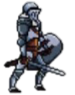
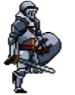
J'ai refais un UC pour la zone de jeu. Je dois faire les actions du personnage.

diff --git a/LostAdventure/UCJeu.xaml b/LostAdventure/UCJeu.xaml
@@ -1,16 +1,12 @@
-<Window x:Class="LostAdventure.MainWindow"
+<UserControl x:Class="LostAdventure.UCJeu"
         xmlns="http://schemas.microsoft.com/winfx/2006/xaml/presentation"
         xmlns:x="http://schemas.microsoft.com/winfx/2006/xaml"
         xmlns:d="http://schemas.microsoft.com/expression/blend/2008"
         xmlns:mc="http://schemas.openxmlformats.org/markup-compatibility/2006"
         xmlns:local="clr-namespace:LostAdventure"
         mc:Ignorable="d"
-        Title="MainWindow" Height="900" Width="1600">
-    <Window.Background>
-        <ImageBrush ImageSource="/Img/1Entree.png"></ImageBrush>
-    </Window.Background>
-    <ContentControl x:Name="ZoneDeJeu">
-        
-    </ContentControl>
-
-</Window>
+        d:DesignHeight="900" d:DesignWidth="1600">
+    <Canvas>
+        <Image x:Name="Aventurier" Source="/Img/Aventurier/AventurierMarche(1).png" Canvas.Left="200" Canvas.Bottom="200" HorizontalAlignment="Left" VerticalAlignment="Top" Height="150" Width="130"/>
+    </Canvas>
+</UserControl>

diff --git a/LostAdventure/MainWindow.xaml.cs b/LostAdventure/MainWindow.xaml.cs
@@ -6,6 +6,7 @@ using System.Windows.Documents;
 using System.Windows.Input;
 using System.Windows.Media;
 using System.Windows.Media.Imaging;
+using System.Windows.Media.Media3D;
 using System.Windows.Navigation;
 using System.Windows.Shapes;
 using System.Windows.Threading;
@@ -17,13 +18,10 @@ namespace LostAdventure
     /// </summary>
     public partial class MainWindow : Window
     {
-        private BitmapImage[]  aventurier = new BitmapImage[8];
-        private int nb = 0;
-        public Image[] spriteEnnemis;
-        public Image[] spriteBoss;
+        
         private DispatcherTimer minuterie;
         double aventurierX, aventurierY;
-        bool left, right, up, down;
+        bool gauche, droite;
 
         public MainWindow()
         {
@@ -44,13 +42,7 @@ namespace LostAdventure
             InitializeSprites();
         }
 
-        private void Jeu(object sender, EventArgs e)
-        {
-            nb++;
-            if (nb == aventurier.Length)
-                nb= 0;
-            Aventurier.Source = aventurier[nb];
-        }
+        
 
         public void AfficheReglesJeu()
         {
@@ -58,39 +50,37 @@ namespace LostAdventure
             ZoneDeJeu.Content = ucReglesJeu;
         }
 
+        public void AfficheJeu()
+        {
+            UCJeu uc = new UCJeu();
+            ZoneDeJeu.Content = uc;
+        }
+
         private void deplacementAventurier()
         {
-        
+
         }
 
         private void InitializeTimer()
         {
             minuterie = new DispatcherTimer();
             minuterie.Interval = TimeSpan.FromMilliseconds(16);
-            minuterie.Tick += Jeu;
+            //minuterie.Tick += Jeu;
             minuterie.Start();
         }
 
-        private void InitializeSprites()
-        {
-            for (int i = 1; i < aventurier.Length; i++)
-                aventurier[i] = new BitmapImage(new Uri($"/Images/Aventurier/AventurierMarche({i}).png"));
-        }
+        
 
         private void Window_KeyDown(object sender, KeyEventArgs e)
         {
-            if (e.Key == Key.Left) left = true;
-            if (e.Key == Key.Right) right = true;
-            if (e.Key == Key.Up) up = true;
-            if (e.Key == Key.Down) down = true;
+            if (e.Key == Key.Left) droite = true;
+            if (e.Key == Key.Right) droite = true;
         }
 
         private void Window_KeyUp(object sender, KeyEventArgs e)
         {
-            if (e.Key == Key.Left) left = false;
-            if (e.Key == Key.Right) right = false;
-            if (e.Key == Key.Up) up = false;
-            if (e.Key == Key.Down) down = false;
+            if (e.Key == Key.Left) gauche = false;
+            if (e.Key == Key.Right) droite = false;
         }
     }
 }

diff --git a/LostAdventure/UCJeu.xaml.cs b/LostAdventure/UCJeu.xaml.cs
@@ -1,0 +1,70 @@
+using System;
+using System.Collections.Generic;
+using System.Linq;
+using System.Text;
+using System.Threading.Tasks;
+using System.Windows;
+using System.Windows.Controls;
+using System.Windows.Data;
+using System.Windows.Documents;
+using System.Windows.Input;
+using System.Windows.Media;
+using System.Windows.Media.Imaging;
+using System.Windows.Media.Media3D;
+using System.Windows.Shapes;
+
+namespace LostAdventure
+{
+    /// <summary>
+    /// Logique d'interaction pour UCJeu.xaml
+    /// </summary>
+    
+    public partial class UCJeu : UserControl
+    {
+        private BitmapImage[] aventurier = new BitmapImage[8];
+        private int nb = 0;
+        public Image[] spriteEnnemis;
+        public Image[] spriteBoss;
+        public UCJeu()
+        {
+            InitializeComponent();
+        }
+
+        public void Jeu(object sender, EventArgs e)
+        {
+            nb++;
+            if (nb == aventurier.Length)
+                nb = 0;
+            Aventurier.Source = aventurier[nb];
+        }
+
+        private void UserControl_Loaded(object sender, RoutedEventArgs e)
+        {
+
+            Application.Current.MainWindow.KeyDown += canvasJeu_KeyDown;
+            Application.Current.MainWindow.KeyUp += canvasJeu_KeyUp;
+
+        }
+
+        public void InitializeSprites()
+        {
+            for (int i = 1; i < aventurier.Length; i++)
+                aventurier[i] = new BitmapImage(new Uri($"pack://application:,,,/Img/Aventurier/AventurierMarche({i}).png"));
+        }
+
+        private void canvasJeu_KeyDown(object sender, KeyEventArgs e)
+        {
+            if (e.Key == Key.Left)
+                Canvas.SetLeft(Aventurier, Canvas.GetLeft(Aventurier)+2);
+            if (e.Key == Key.Right)
+                Canvas.SetLeft(Aventurier, Canvas.GetLeft(Aventurier)-2);
+
+        }
+
+        private void canvasJeu_KeyUp(object sender, KeyEventArgs e)
+        {
+           
+           
+        }
+    }
+}

diff --git a/LostAdventure/UCMainMenu.xaml.cs b/LostAdventure/UCMainMenu.xaml.cs
@@ -24,9 +24,8 @@ namespace LostAdventure
 
 		private void butJouer_Click(object sender, RoutedEventArgs e)
 		{
-			
 			var main = Application.Current.MainWindow as MainWindow;
-			main.InitialiseJeu();
+			main.AfficheJeu();
         }
 
 		private void butRegles_Click(object sender, RoutedEventArgs e)
